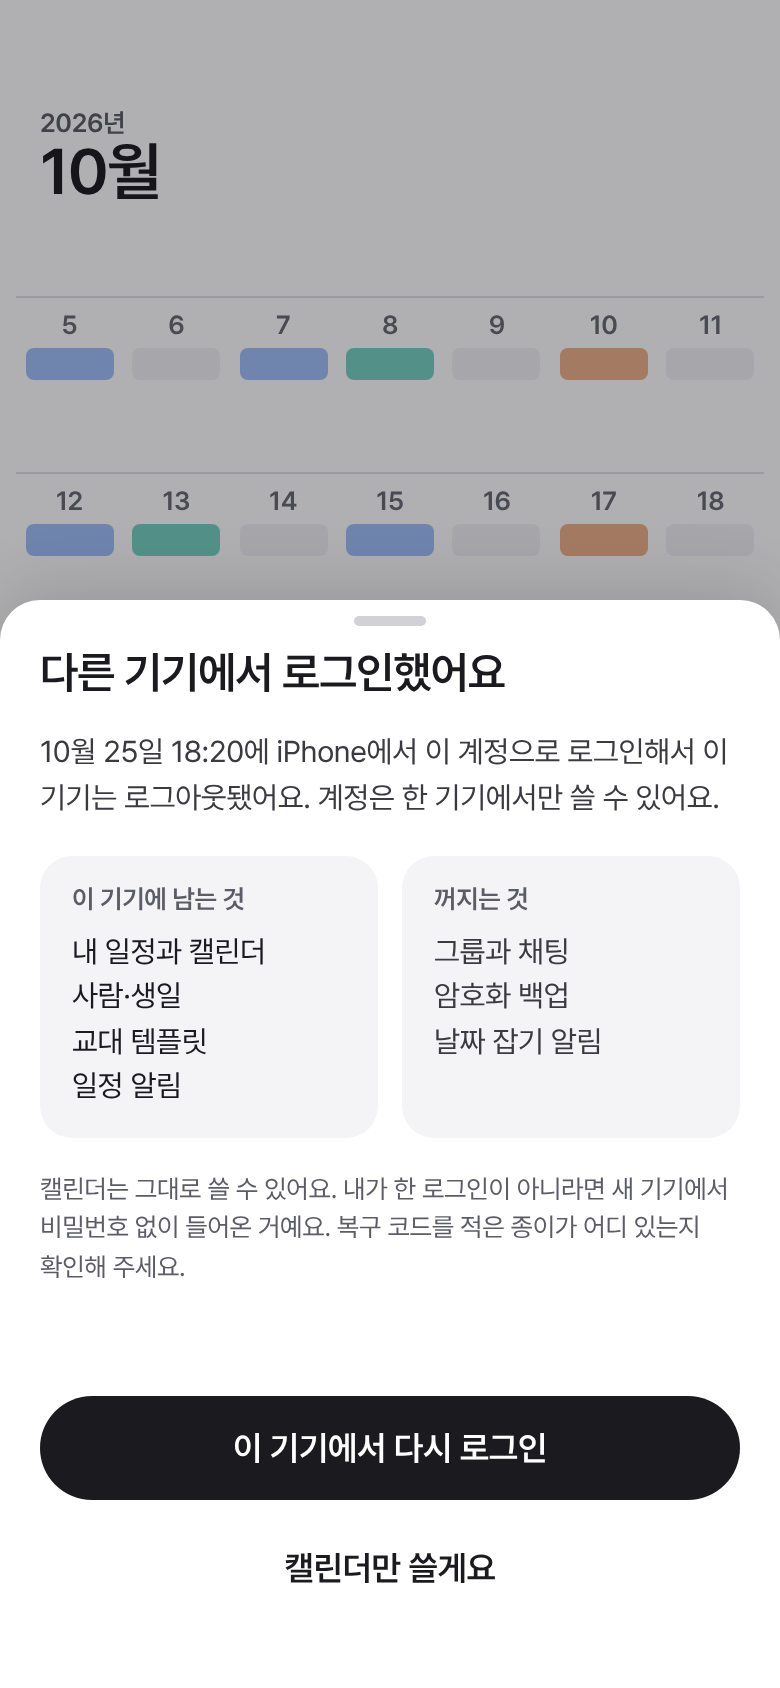
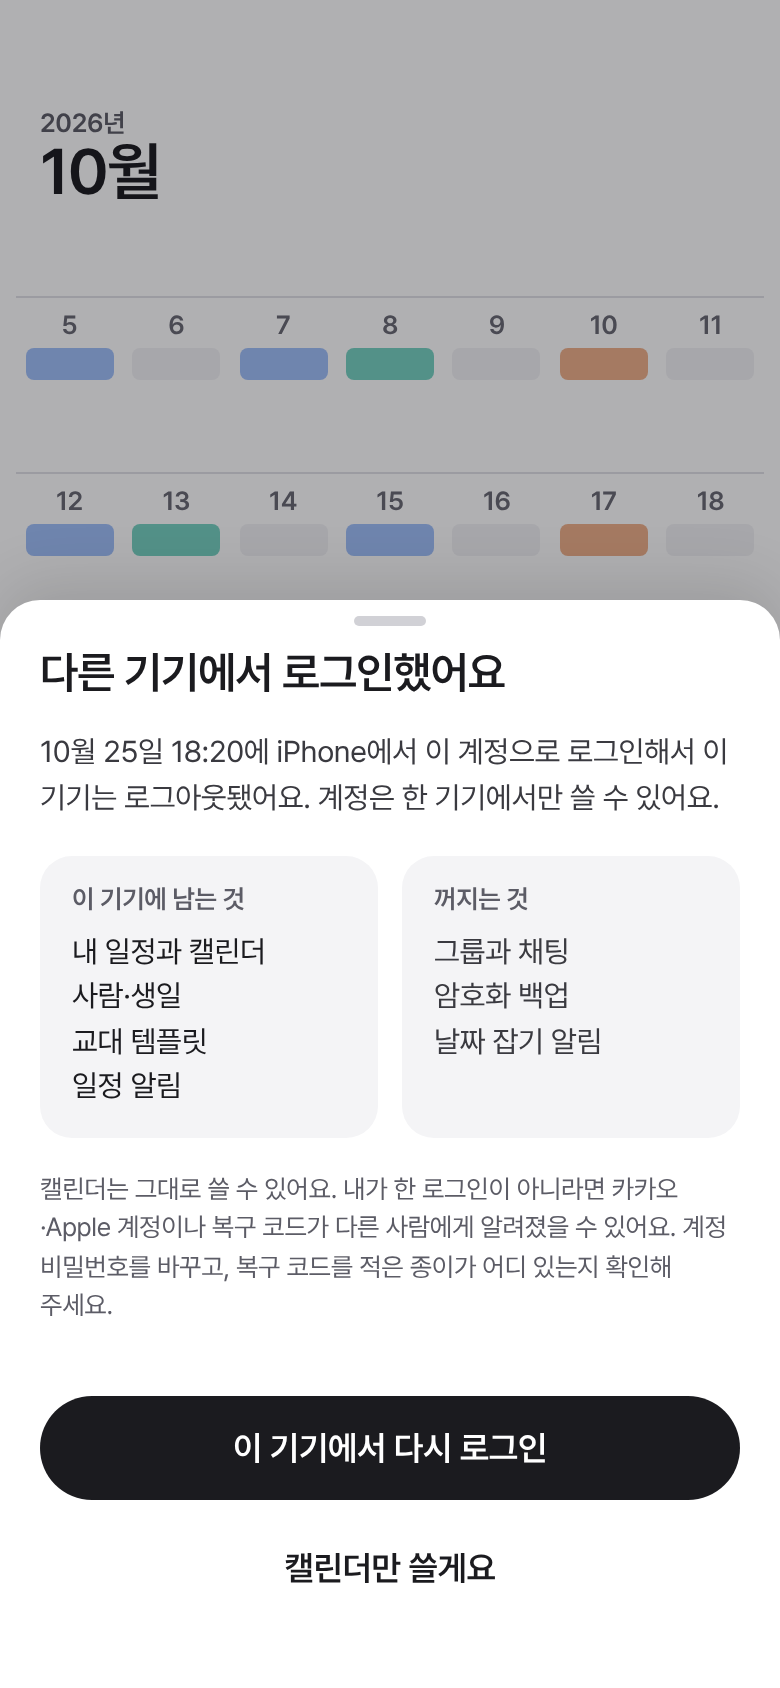
docs(design): take the revoked-device wording and 403 fields from the contract
The 403 device_revoked body now carries replaced_at and replaced_by, and the
revoke event does not, so the sheet fills its time and platform from a
request. The warning line no longer claims the new device signed in without
credentials: a Kakao/Apple account or the recovery code must have leaked.

Claude-Session: https://claude.ai/code/session_01NfNQYytRc1WA56NULSw6PM

Changed region(s): [[0.0615, 0.6777, 0.9231, 0.8009]]

diff --git a/docs/design/boards/Revoked.dc.html b/docs/design/boards/Revoked.dc.html
@@ -18,7 +18,7 @@ input::placeholder{color:#696973}
 </style>
 </helmet>
 <div style="width: 390px; height: 844px; position: relative; overflow: hidden; background: #ffffff; color: #1b1b1f; font-family: Pretendard, -apple-system, BlinkMacSystemFont, 'Apple SD Gothic Neo', 'Noto Sans KR', sans-serif; letter-spacing: -0.01em; word-break: keep-all; overflow-wrap: break-word">
-<div aria-hidden="true" style="position: absolute; inset: 0"><div style="position: absolute; top: 54px; left: 20px; display: flex; flex-direction: column"><span style="font-size: 13px; font-weight: 600; color: #5c5c66">2026년</span><span style="font-size: 32px; font-weight: 600; line-height: 1.1; letter-spacing: -0.025em">10월</span></div><div style="position: absolute; top: 148px; left: 8px; width: 374px; display: grid; grid-template-columns: repeat(7, minmax(0, 1fr)); grid-auto-rows: 88px"><div style="border-top: 1px solid #e1e1e6; display: flex; flex-direction: column; align-items: center; padding-top: 6px; gap: 4px"><span style="font-size: 13px; font-weight: 600; color: #696973">5</span><span style="width: 44px; height: 16px; border-radius: 4px; background: #a0c0fa"></span></div><div style="border-top: 1px solid #e1e1e6; display: flex; flex-direction: column; align-items: center; padding-top: 6px; gap: 4px"><span style="font-size: 13px; font-weight: 600; color: #696973">6</span><span style="width: 44px; height: 16px; border-radius: 4px; background: #f2f2f5"></span></div><div style="border-top: 1px solid #e1e1e6; display: flex; flex-direction: column; align-items: center; padding-top: 6px; gap: 4px"><span style="font-size: 13px; font-weight: 600; color: #696973">7</span><span style="width: 44px; height: 16px; border-radius: 4px; background: #a0c0fa"></span></div><div style="border-top: 1px solid #e1e1e6; display: flex; flex-direction: column; align-items: center; padding-top: 6px; gap: 4px"><span style="font-size: 13px; font-weight: 600; color: #696973">8</span><span style="width: 44px; height: 16px; border-radius: 4px; background: #77d1c2"></span></div><div style="border-top: 1px solid #e1e1e6; display: flex; flex-direction: column; align-items: center; padding-top: 6px; gap: 4px"><span style="font-size: 13px; font-weight: 600; color: #696973">9</span><span style="width: 44px; height: 16px; border-radius: 4px; background: #f2f2f5"></span></div><div style="border-top: 1px solid #e1e1e6; display: flex; flex-direction: column; align-items: center; padding-top: 6px; gap: 4px"><span style="font-size: 13px; font-weight: 600; color: #696973">10</span><span style="width: 44px; height: 16px; border-radius: 4px; background: #efb08a"></span></div><div style="border-top: 1px solid #e1e1e6; display: flex; flex-direction: column; align-items: center; padding-top: 6px; gap: 4px"><span style="font-size: 13px; font-weight: 600; color: #696973">11</span><span style="width: 44px; height: 16px; border-radius: 4px; background: #f2f2f5"></span></div><div style="border-top: 1px solid #e1e1e6; display: flex; flex-direction: column; align-items: center; padding-top: 6px; gap: 4px"><span style="font-size: 13px; font-weight: 600; color: #696973">12</span><span style="width: 44px; height: 16px; border-radius: 4px; background: #a0c0fa"></span></div><div style="border-top: 1px solid #e1e1e6; display: flex; flex-direction: column; align-items: center; padding-top: 6px; gap: 4px"><span style="font-size: 13px; font-weight: 600; color: #696973">13</span><span style="width: 44px; height: 16px; border-radius: 4px; background: #77d1c2"></span></div><div style="border-top: 1px solid #e1e1e6; display: flex; flex-direction: column; align-items: center; padding-top: 6px; gap: 4px"><span style="font-size: 13px; font-weight: 600; color: #696973">14</span><span style="width: 44px; height: 16px; border-radius: 4px; background: #f2f2f5"></span></div><div style="border-top: 1px solid #e1e1e6; display: flex; flex-direction: column; align-items: center; padding-top: 6px; gap: 4px"><span style="font-size: 13px; font-weight: 600; color: #696973">15</span><span style="width: 44px; height: 16px; border-radius: 4px; background: #a0c0fa"></span></div><div style="border-top: 1px solid #e1e1e6; display: flex; flex-direction: column; align-items: center; padding-top: 6px; gap: 4px"><span style="font-size: 13px; font-weight: 600; color: #696973">16</span><span style="width: 44px; height: 16px; border-radius: 4px; background: #f2f2f5"></span></div><div style="border-top: 1px solid #e1e1e6; display: flex; flex-direction: column; align-items: center; padding-top: 6px; gap: 4px"><span style="font-size: 13px; font-weight: 600; color: #696973">17</span><span style="width: 44px; height: 16px; border-radius: 4px; background: #efb08a"></span></div><div style="border-top: 1px solid #e1e1e6; display: flex; flex-direction: column; align-items: center; padding-top: 6px; gap: 4px"><span style="font-size: 13px; font-weight: 600; color: #696973">18</span><span style="width: 44px; height: 16px; border-radius: 4px; background: #f2f2f5"></span></div></div><div style="position: absolute; inset: 0; background: rgba(10,10,14,0.32)"></div></div><section role="dialog" aria-modal="true" aria-label="다른 기기에서 로그인했어요" style="position: absolute; left: 0; top: 300px; width: 390px; height: 544px; box-sizing: border-box; padding: 8px 20px 34px; background: #ffffff; border-radius: 20px 20px 0 0; box-shadow: 0 -8px 32px rgba(0,0,0,0.12); display: flex; flex-direction: column; gap: 16px"><div aria-hidden="true" style="align-self: center; width: 36px; height: 5px; border-radius: 3px; background: #d1d1d6"></div><h2 style="margin: -6px 0 0; font-size: 22px; font-weight: 600; letter-spacing: -0.02em">다른 기기에서 로그인했어요</h2><p style="margin: 0; font-size: 15px; line-height: 1.55; color: #3a3a40">10월 25일 18:20에 iPhone에서 이 계정으로 로그인해서 이 기기는 로그아웃됐어요. 계정은 한 기기에서만 쓸 수 있어요.</p><div style="display: grid; grid-template-columns: 1fr 1fr; gap: 12px"><div style="padding: 14px 16px; border-radius: 16px; background: #f4f4f6; display: flex; flex-direction: column; gap: 8px"><span style="font-size: 13px; font-weight: 600; color: #5c5c66">이 기기에 남는 것</span><span style="font-size: 15px; line-height: 1.5">내 일정과 캘린더<br>사람·생일<br>교대 템플릿<br>일정 알림</span></div><div style="padding: 14px 16px; border-radius: 16px; background: #f4f4f6; display: flex; flex-direction: column; gap: 8px"><span style="font-size: 13px; font-weight: 600; color: #5c5c66">꺼지는 것</span><span style="font-size: 15px; line-height: 1.5; color: #3a3a40">그룹과 채팅<br>암호화 백업<br>날짜 잡기 알림</span></div></div><p style="margin: 0; font-size: 13px; line-height: 1.5; color: #5c5c66">캘린더는 그대로 쓸 수 있어요. 내가 한 로그인이 아니라면 새 기기에서 비밀번호 없이 들어온 거예요. 복구 코드를 적은 종이가 어디 있는지 확인해 주세요.</p><div style="margin-top: auto; display: flex; flex-direction: column; gap: 8px"><a href="SignIn.dc.html" style="height: 52px; border-radius: 999px; background: #1b1b1f; color: #ffffff; display: flex; align-items: center; justify-content: center; font-size: 17px; font-weight: 600">이 기기에서 다시 로그인</a><a href="Month.dc.html" style="height: 52px; display: flex; align-items: center; justify-content: center; font-size: 17px; font-weight: 600">캘린더만 쓸게요</a></div></section>
+<div aria-hidden="true" style="position: absolute; inset: 0"><div style="position: absolute; top: 54px; left: 20px; display: flex; flex-direction: column"><span style="font-size: 13px; font-weight: 600; color: #5c5c66">2026년</span><span style="font-size: 32px; font-weight: 600; line-height: 1.1; letter-spacing: -0.025em">10월</span></div><div style="position: absolute; top: 148px; left: 8px; width: 374px; display: grid; grid-template-columns: repeat(7, minmax(0, 1fr)); grid-auto-rows: 88px"><div style="border-top: 1px solid #e1e1e6; display: flex; flex-direction: column; align-items: center; padding-top: 6px; gap: 4px"><span style="font-size: 13px; font-weight: 600; color: #696973">5</span><span style="width: 44px; height: 16px; border-radius: 4px; background: #a0c0fa"></span></div><div style="border-top: 1px solid #e1e1e6; display: flex; flex-direction: column; align-items: center; padding-top: 6px; gap: 4px"><span style="font-size: 13px; font-weight: 600; color: #696973">6</span><span style="width: 44px; height: 16px; border-radius: 4px; background: #f2f2f5"></span></div><div style="border-top: 1px solid #e1e1e6; display: flex; flex-direction: column; align-items: center; padding-top: 6px; gap: 4px"><span style="font-size: 13px; font-weight: 600; color: #696973">7</span><span style="width: 44px; height: 16px; border-radius: 4px; background: #a0c0fa"></span></div><div style="border-top: 1px solid #e1e1e6; display: flex; flex-direction: column; align-items: center; padding-top: 6px; gap: 4px"><span style="font-size: 13px; font-weight: 600; color: #696973">8</span><span style="width: 44px; height: 16px; border-radius: 4px; background: #77d1c2"></span></div><div style="border-top: 1px solid #e1e1e6; display: flex; flex-direction: column; align-items: center; padding-top: 6px; gap: 4px"><span style="font-size: 13px; font-weight: 600; color: #696973">9</span><span style="width: 44px; height: 16px; border-radius: 4px; background: #f2f2f5"></span></div><div style="border-top: 1px solid #e1e1e6; display: flex; flex-direction: column; align-items: center; padding-top: 6px; gap: 4px"><span style="font-size: 13px; font-weight: 600; color: #696973">10</span><span style="width: 44px; height: 16px; border-radius: 4px; background: #efb08a"></span></div><div style="border-top: 1px solid #e1e1e6; display: flex; flex-direction: column; align-items: center; padding-top: 6px; gap: 4px"><span style="font-size: 13px; font-weight: 600; color: #696973">11</span><span style="width: 44px; height: 16px; border-radius: 4px; background: #f2f2f5"></span></div><div style="border-top: 1px solid #e1e1e6; display: flex; flex-direction: column; align-items: center; padding-top: 6px; gap: 4px"><span style="font-size: 13px; font-weight: 600; color: #696973">12</span><span style="width: 44px; height: 16px; border-radius: 4px; background: #a0c0fa"></span></div><div style="border-top: 1px solid #e1e1e6; display: flex; flex-direction: column; align-items: center; padding-top: 6px; gap: 4px"><span style="font-size: 13px; font-weight: 600; color: #696973">13</span><span style="width: 44px; height: 16px; border-radius: 4px; background: #77d1c2"></span></div><div style="border-top: 1px solid #e1e1e6; display: flex; flex-direction: column; align-items: center; padding-top: 6px; gap: 4px"><span style="font-size: 13px; font-weight: 600; color: #696973">14</span><span style="width: 44px; height: 16px; border-radius: 4px; background: #f2f2f5"></span></div><div style="border-top: 1px solid #e1e1e6; display: flex; flex-direction: column; align-items: center; padding-top: 6px; gap: 4px"><span style="font-size: 13px; font-weight: 600; color: #696973">15</span><span style="width: 44px; height: 16px; border-radius: 4px; background: #a0c0fa"></span></div><div style="border-top: 1px solid #e1e1e6; display: flex; flex-direction: column; align-items: center; padding-top: 6px; gap: 4px"><span style="font-size: 13px; font-weight: 600; color: #696973">16</span><span style="width: 44px; height: 16px; border-radius: 4px; background: #f2f2f5"></span></div><div style="border-top: 1px solid #e1e1e6; display: flex; flex-direction: column; align-items: center; padding-top: 6px; gap: 4px"><span style="font-size: 13px; font-weight: 600; color: #696973">17</span><span style="width: 44px; height: 16px; border-radius: 4px; background: #efb08a"></span></div><div style="border-top: 1px solid #e1e1e6; display: flex; flex-direction: column; align-items: center; padding-top: 6px; gap: 4px"><span style="font-size: 13px; font-weight: 600; color: #696973">18</span><span style="width: 44px; height: 16px; border-radius: 4px; background: #f2f2f5"></span></div></div><div style="position: absolute; inset: 0; background: rgba(10,10,14,0.32)"></div></div><section role="dialog" aria-modal="true" aria-label="다른 기기에서 로그인했어요" style="position: absolute; left: 0; top: 300px; width: 390px; height: 544px; box-sizing: border-box; padding: 8px 20px 34px; background: #ffffff; border-radius: 20px 20px 0 0; box-shadow: 0 -8px 32px rgba(0,0,0,0.12); display: flex; flex-direction: column; gap: 16px"><div aria-hidden="true" style="align-self: center; width: 36px; height: 5px; border-radius: 3px; background: #d1d1d6"></div><h2 style="margin: -6px 0 0; font-size: 22px; font-weight: 600; letter-spacing: -0.02em">다른 기기에서 로그인했어요</h2><p style="margin: 0; font-size: 15px; line-height: 1.55; color: #3a3a40">10월 25일 18:20에 iPhone에서 이 계정으로 로그인해서 이 기기는 로그아웃됐어요. 계정은 한 기기에서만 쓸 수 있어요.</p><div style="display: grid; grid-template-columns: 1fr 1fr; gap: 12px"><div style="padding: 14px 16px; border-radius: 16px; background: #f4f4f6; display: flex; flex-direction: column; gap: 8px"><span style="font-size: 13px; font-weight: 600; color: #5c5c66">이 기기에 남는 것</span><span style="font-size: 15px; line-height: 1.5">내 일정과 캘린더<br>사람·생일<br>교대 템플릿<br>일정 알림</span></div><div style="padding: 14px 16px; border-radius: 16px; background: #f4f4f6; display: flex; flex-direction: column; gap: 8px"><span style="font-size: 13px; font-weight: 600; color: #5c5c66">꺼지는 것</span><span style="font-size: 15px; line-height: 1.5; color: #3a3a40">그룹과 채팅<br>암호화 백업<br>날짜 잡기 알림</span></div></div><p style="margin: 0; font-size: 13px; line-height: 1.5; color: #5c5c66">캘린더는 그대로 쓸 수 있어요. 내가 한 로그인이 아니라면 카카오·Apple 계정이나 복구 코드가 다른 사람에게 알려졌을 수 있어요. 계정 비밀번호를 바꾸고, 복구 코드를 적은 종이가 어디 있는지 확인해 주세요.</p><div style="margin-top: auto; display: flex; flex-direction: column; gap: 8px"><a href="SignIn.dc.html" style="height: 52px; border-radius: 999px; background: #1b1b1f; color: #ffffff; display: flex; align-items: center; justify-content: center; font-size: 17px; font-weight: 600">이 기기에서 다시 로그인</a><a href="Month.dc.html" style="height: 52px; display: flex; align-items: center; justify-content: center; font-size: 17px; font-weight: 600">캘린더만 쓸게요</a></div></section>
 </div>
 </x-dc>
 <script type="text/x-dc" data-dc-script data-props='{"$preview":{"width":390,"height":844}}'>

diff --git a/docs/design/m1.md b/docs/design/m1.md
@@ -357,10 +357,10 @@ flowchart TD
 | 항목 | 내용 |
 | --- | --- |
 | 언제 | 이전 기기가 다음 요청에서 403 `device_revoked`를 받았을 때. 앱이 열려 있으면 그 자리에서, 닫혀 있으면 다음에 열 때 시트로 뜹니다. 푸시 `revoke`를 받아도 같은 시트입니다 |
-| 구성 | 시트(300부터) → 제목 "다른 기기에서 로그인했어요" → 설명 "10월 25일 18:20에 iPhone에서 이 계정으로 로그인해서 이 기기는 로그아웃됐어요. 계정은 한 기기에서만 쓸 수 있어요."(시각과 플랫폼은 서버가 주는 값) → 두 카드 "이 기기에 남는 것"(내 일정과 캘린더, 사람·생일, 교대 템플릿, 일정 알림) / "꺼지는 것"(그룹과 채팅, 암호화 백업, 날짜 잡기 알림) → 안내 "캘린더는 그대로 쓸 수 있어요. 내가 한 로그인이 아니라면 새 기기에서 비밀번호 없이 들어온 거예요. 복구 코드를 적은 종이가 어디 있는지 확인해 주세요." → 주요 버튼 "이 기기에서 다시 로그인" → 글자 버튼 "캘린더만 쓸게요" |
+| 구성 | 시트(300부터) → 제목 "다른 기기에서 로그인했어요" → 설명 "10월 25일 18:20에 iPhone에서 이 계정으로 로그인해서 이 기기는 로그아웃됐어요. 계정은 한 기기에서만 쓸 수 있어요."(시각과 플랫폼은 403 본문의 `replaced_at`·`replaced_by`. 실시간 `revoke` 이벤트에는 값이 없으므로 이벤트를 받으면 요청을 하나 보내 403 본문으로 채움) → 두 카드 "이 기기에 남는 것"(내 일정과 캘린더, 사람·생일, 교대 템플릿, 일정 알림) / "꺼지는 것"(그룹과 채팅, 암호화 백업, 날짜 잡기 알림) → 안내 "캘린더는 그대로 쓸 수 있어요. 내가 한 로그인이 아니라면 카카오·Apple 계정이나 복구 코드가 다른 사람에게 알려졌을 수 있어요. 계정 비밀번호를 바꾸고, 복구 코드를 적은 종이가 어디 있는지 확인해 주세요." → 주요 버튼 "이 기기에서 다시 로그인" → 글자 버튼 "캘린더만 쓸게요" |
 | 뒤 | "캘린더만 쓸게요"를 고르면 앱은 로그아웃 상태로 남습니다. 월·주·목록, 편집, 교대, 사람은 그대로 되고, 나 화면의 프로필 카드가 "로그아웃됨 · 캘린더만 쓸 수 있어요 · 로그인"으로 바뀌며 보안과 백업 묶음은 흐려집니다. 그룹 탭(M2)은 빈 화면에 "로그인하면 그룹을 다시 볼 수 있어요" |
-| 다시 로그인 | 같은 계정으로 로그인하면 이번에는 이 기기가 새 기기이므로 교체 티켓을 받고 21번 화면으로 갑니다. 이 기기의 일정은 그대로 두고 백업과 합칩니다(같은 id는 백업이 이김) |
-| 코어 | `session.state()` → `revoked(at, platform)`, 앱은 세션 토큰과 그룹 상태를 지우고 캘린더 저장소는 유지 |
+| 다시 로그인 | 같은 계정으로 로그인하면 이번에는 이 기기가 새 기기이므로 교체 티켓을 받고 21번 화면으로 갑니다. 이 기기의 일정은 그대로 두고 백업과 합칩니다(같은 id는 백업이 이기고, 백업에 없는 로컬 항목은 남음. 계약 10장 복원 4단계) |
+| 코어 | `session.state()` → `revoked(replacedAt, replacedBy)`, 앱은 세션 토큰과 그룹 상태를 지우고 캘린더 저장소는 유지 |
 
 ## 4. 공통 상태
 

diff --git a/docs/design/tone.md b/docs/design/tone.md
@@ -109,7 +109,7 @@
 | 교체 티켓 만료 | 시간이 지나 처음부터 다시 로그인해 주세요. |
 | 코드 없음(기기 바꾸기) | 복구 코드 없이는 되찾을 수 없어요 · 백업 없이 새로 시작 |
 | 코드 없음(게스트) | 복구 코드 없이는 게스트 계정을 찾을 수 없어요 · 새 게스트 계정으로 시작 |
-| 다른 기기에서 로그인함 | 다른 기기에서 로그인했어요. 캘린더는 그대로 쓸 수 있어요. |
+| 다른 기기에서 로그인함 | 다른 기기에서 로그인했어요. 캘린더는 그대로 쓸 수 있어요. 내가 한 로그인이 아니라면 카카오·Apple 계정이나 복구 코드가 다른 사람에게 알려졌을 수 있어요. |
 
 버튼은 상태를 그대로 적습니다: "단어 5개 더", "8번째 단어를 고쳐 주세요", "코드를 다시 확인해 주세요", "다시 시도", "계정 찾기", "백업 가져오기".
 
